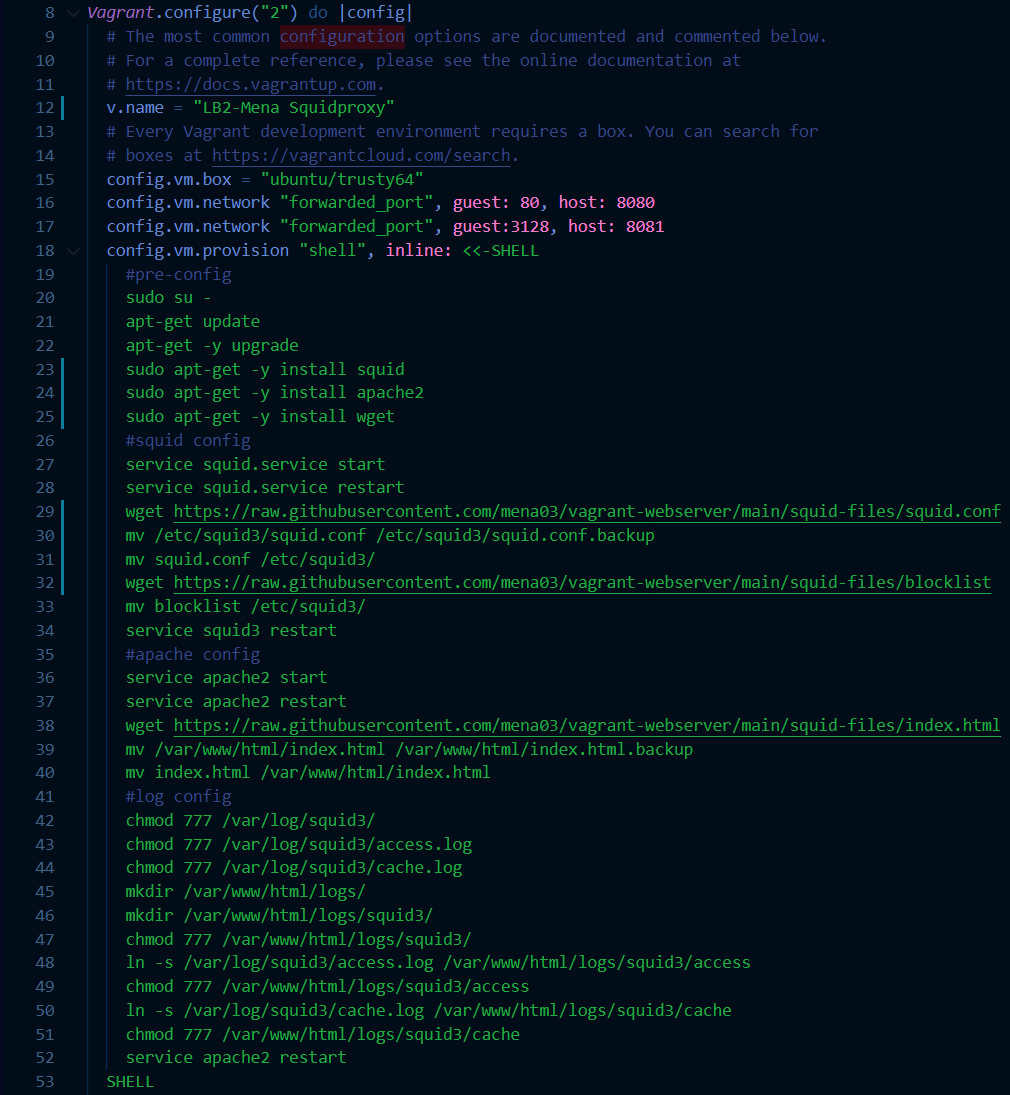
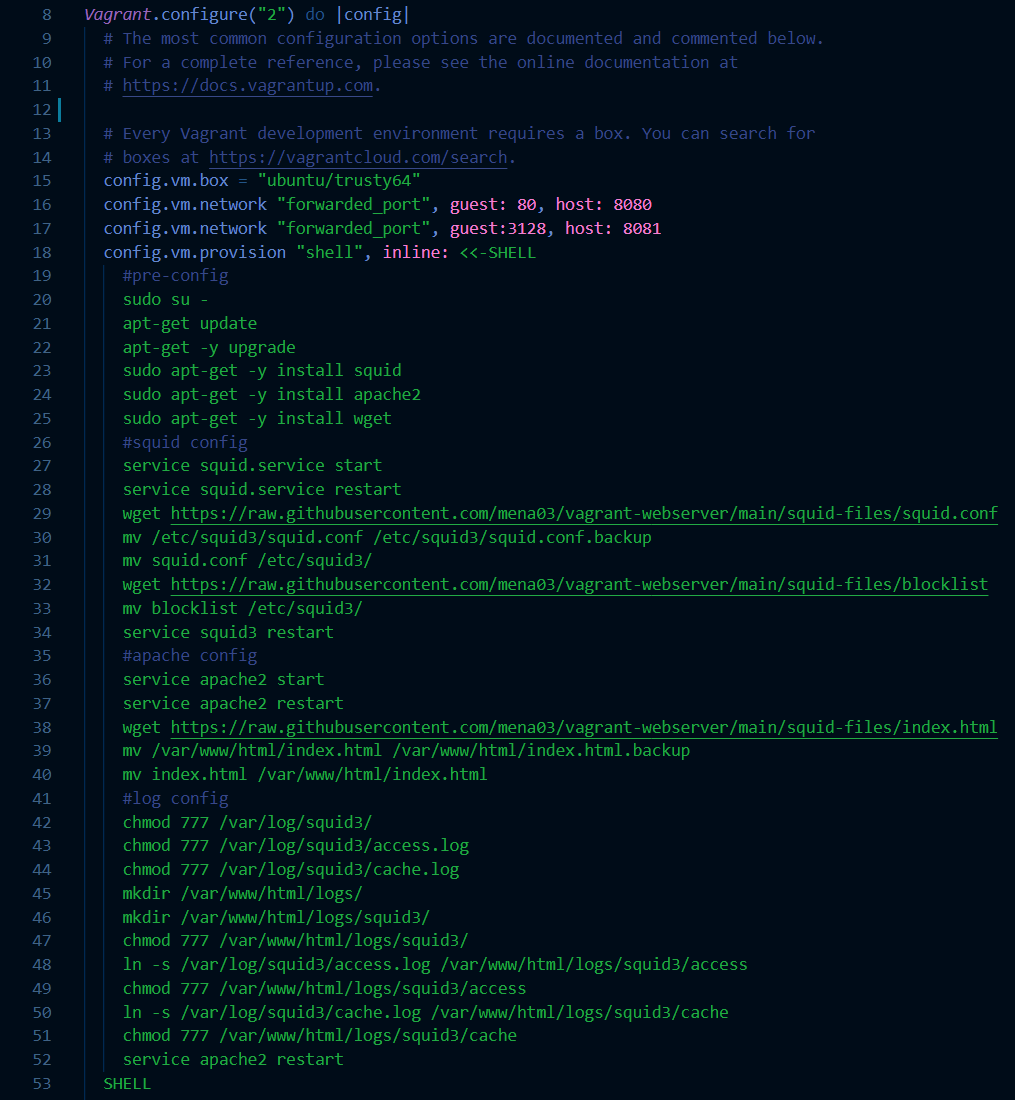
images and vagrantfile updated

Changed region(s): [[0.0307, 0.0, 0.9822, 0.9936], [0.6446, 0.0932, 0.798, 0.1242]]

diff --git a/lb2/README.md b/lb2/README.md
@@ -24,10 +24,6 @@ Ich habe für alle restlichen Files, die nicht das Vagrantfile oder das README.m
     <th>Zeile</td>
     <th>Funktion</td>
   </tr>
-    <tr>
-    <td>12</td>
-    <td>Definiert den Namen der VM</td>
-  </tr>
   <tr>
     <td>15</td>
     <td>Definiert welche Vagrant Box installiert wird (in diesem Fall eine Ubuntu Maschine)</td>
